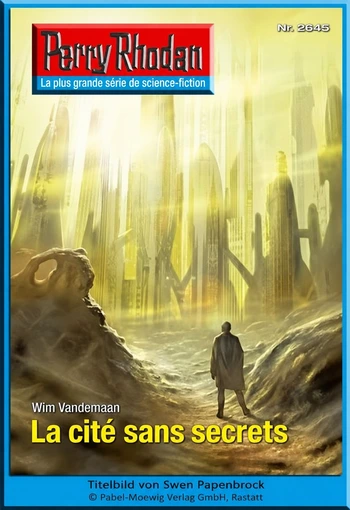
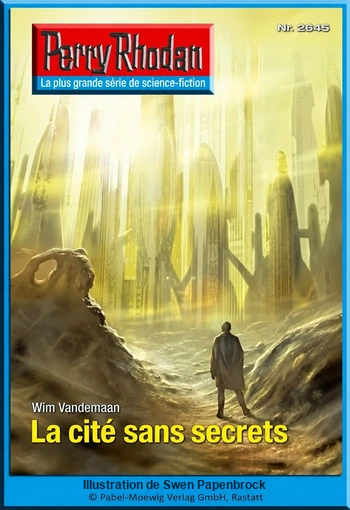
fix: translate illustrator credits on covers 2640-2649

Changed region(s): [[0.2286, 0.9412, 0.7714, 0.9706]]

diff --git a/src/content/chapitres/de-2640.md b/src/content/chapitres/de-2640.md
@@ -4,7 +4,7 @@ cycleNumber: 37
 chapterNumber: 2640
 type: translation
 originalTitle: "Splitter der Superintelligenz"
-cover: "/images/covers/de-2640.webp?v=20261116-2640-fr"
+cover: "/images/covers/de-2640.webp?v=20261118-credits-fr"
 auteur: "Christian Montillon"
 parution: "2012-04-06"
 statut: traduit

diff --git a/src/content/chapitres/de-2649.md b/src/content/chapitres/de-2649.md
@@ -4,7 +4,7 @@ cycleNumber: 37
 chapterNumber: 2649
 type: translation
 originalTitle: "Die Baumeister der BASIS"
-cover: "/images/covers/de-2649.webp?v=20261116-2649-fr"
+cover: "/images/covers/de-2649.webp?v=20261118-credits-fr"
 auteur: "Michael Marcus Thurner"
 parution: "2012-06-08"
 statut: traduit

diff --git a/src/content/chapitres/de-2642.md b/src/content/chapitres/de-2642.md
@@ -4,7 +4,7 @@ cycleNumber: 37
 chapterNumber: 2642
 type: translation
 originalTitle: "Der Maskenschöpfer"
-cover: "/images/covers/de-2642.webp?v=20261116-2642-fr"
+cover: "/images/covers/de-2642.webp?v=20261118-credits-fr"
 auteur: "Michael Marcus Thurner"
 parution: "2012-04-20"
 statut: traduit

diff --git a/src/content/chapitres/de-2644.md b/src/content/chapitres/de-2644.md
@@ -4,7 +4,7 @@ cycleNumber: 37
 chapterNumber: 2644
 type: translation
 originalTitle: "Die Guerillas von Terrania"
-cover: "/images/covers/de-2644.webp?v=20261116-2644-fr"
+cover: "/images/covers/de-2644.webp?v=20261118-credits-fr"
 auteur: "Verena Themsen"
 parution: "2012-05-04"
 statut: traduit

diff --git a/src/content/chapitres/de-2641.md b/src/content/chapitres/de-2641.md
@@ -4,7 +4,7 @@ cycleNumber: 37
 chapterNumber: 2641
 type: translation
 originalTitle: "TANEDRARS Ankunft"
-cover: "/images/covers/de-2641.webp?v=20261116-2641-fr"
+cover: "/images/covers/de-2641.webp?v=20261118-credits-fr"
 auteur: "Michael Marcus Thurner"
 parution: "2012-04-13"
 statut: traduit

diff --git a/src/content/chapitres/de-2645.md b/src/content/chapitres/de-2645.md
@@ -4,7 +4,7 @@ cycleNumber: 37
 chapterNumber: 2645
 type: translation
 originalTitle: "Die Stadt ohne Geheimnisse"
-cover: "/images/covers/de-2645.webp?v=20261116-2645-fr"
+cover: "/images/covers/de-2645.webp?v=20261118-credits-fr"
 auteur: "Wim Vandemaan"
 parution: "2012-05-11"
 statut: traduit

diff --git a/src/content/chapitres/de-2648.md b/src/content/chapitres/de-2648.md
@@ -4,7 +4,7 @@ cycleNumber: 37
 chapterNumber: 2648
 type: translation
 originalTitle: "Die Seele der Flotte"
-cover: "/images/covers/de-2648.webp?v=20261116-2648-fr"
+cover: "/images/covers/de-2648.webp?v=20261118-credits-fr"
 auteur: "Christian Montillon"
 parution: "2012-06-01"
 statut: traduit

diff --git a/src/content/chapitres/de-2643.md b/src/content/chapitres/de-2643.md
@@ -4,7 +4,7 @@ cycleNumber: 37
 chapterNumber: 2643
 type: translation
 originalTitle: "TANEDRARS Puppe"
-cover: "/images/covers/de-2643.webp?v=20261116-2643-fr"
+cover: "/images/covers/de-2643.webp?v=20261118-credits-fr"
 auteur: "Christian Montillon"
 parution: "2012-04-27"
 statut: traduit

diff --git a/src/content/chapitres/de-2646.md b/src/content/chapitres/de-2646.md
@@ -4,7 +4,7 @@ cycleNumber: 37
 chapterNumber: 2646
 type: translation
 originalTitle: "Die Tage des Schattens"
-cover: "/images/covers/de-2646.webp?v=20261116-2646-fr"
+cover: "/images/covers/de-2646.webp?v=20261118-credits-fr"
 auteur: "Leo Lukas"
 parution: "2012-05-18"
 statut: traduit

diff --git a/src/content/chapitres/de-2647.md b/src/content/chapitres/de-2647.md
@@ -4,7 +4,7 @@ cycleNumber: 37
 chapterNumber: 2647
 type: translation
 originalTitle: "Der Umbrische Gong"
-cover: "/images/covers/de-2647.webp?v=20261116-2647-fr"
+cover: "/images/covers/de-2647.webp?v=20261118-credits-fr"
 auteur: "Leo Lukas"
 parution: "2012-05-25"
 statut: traduit
